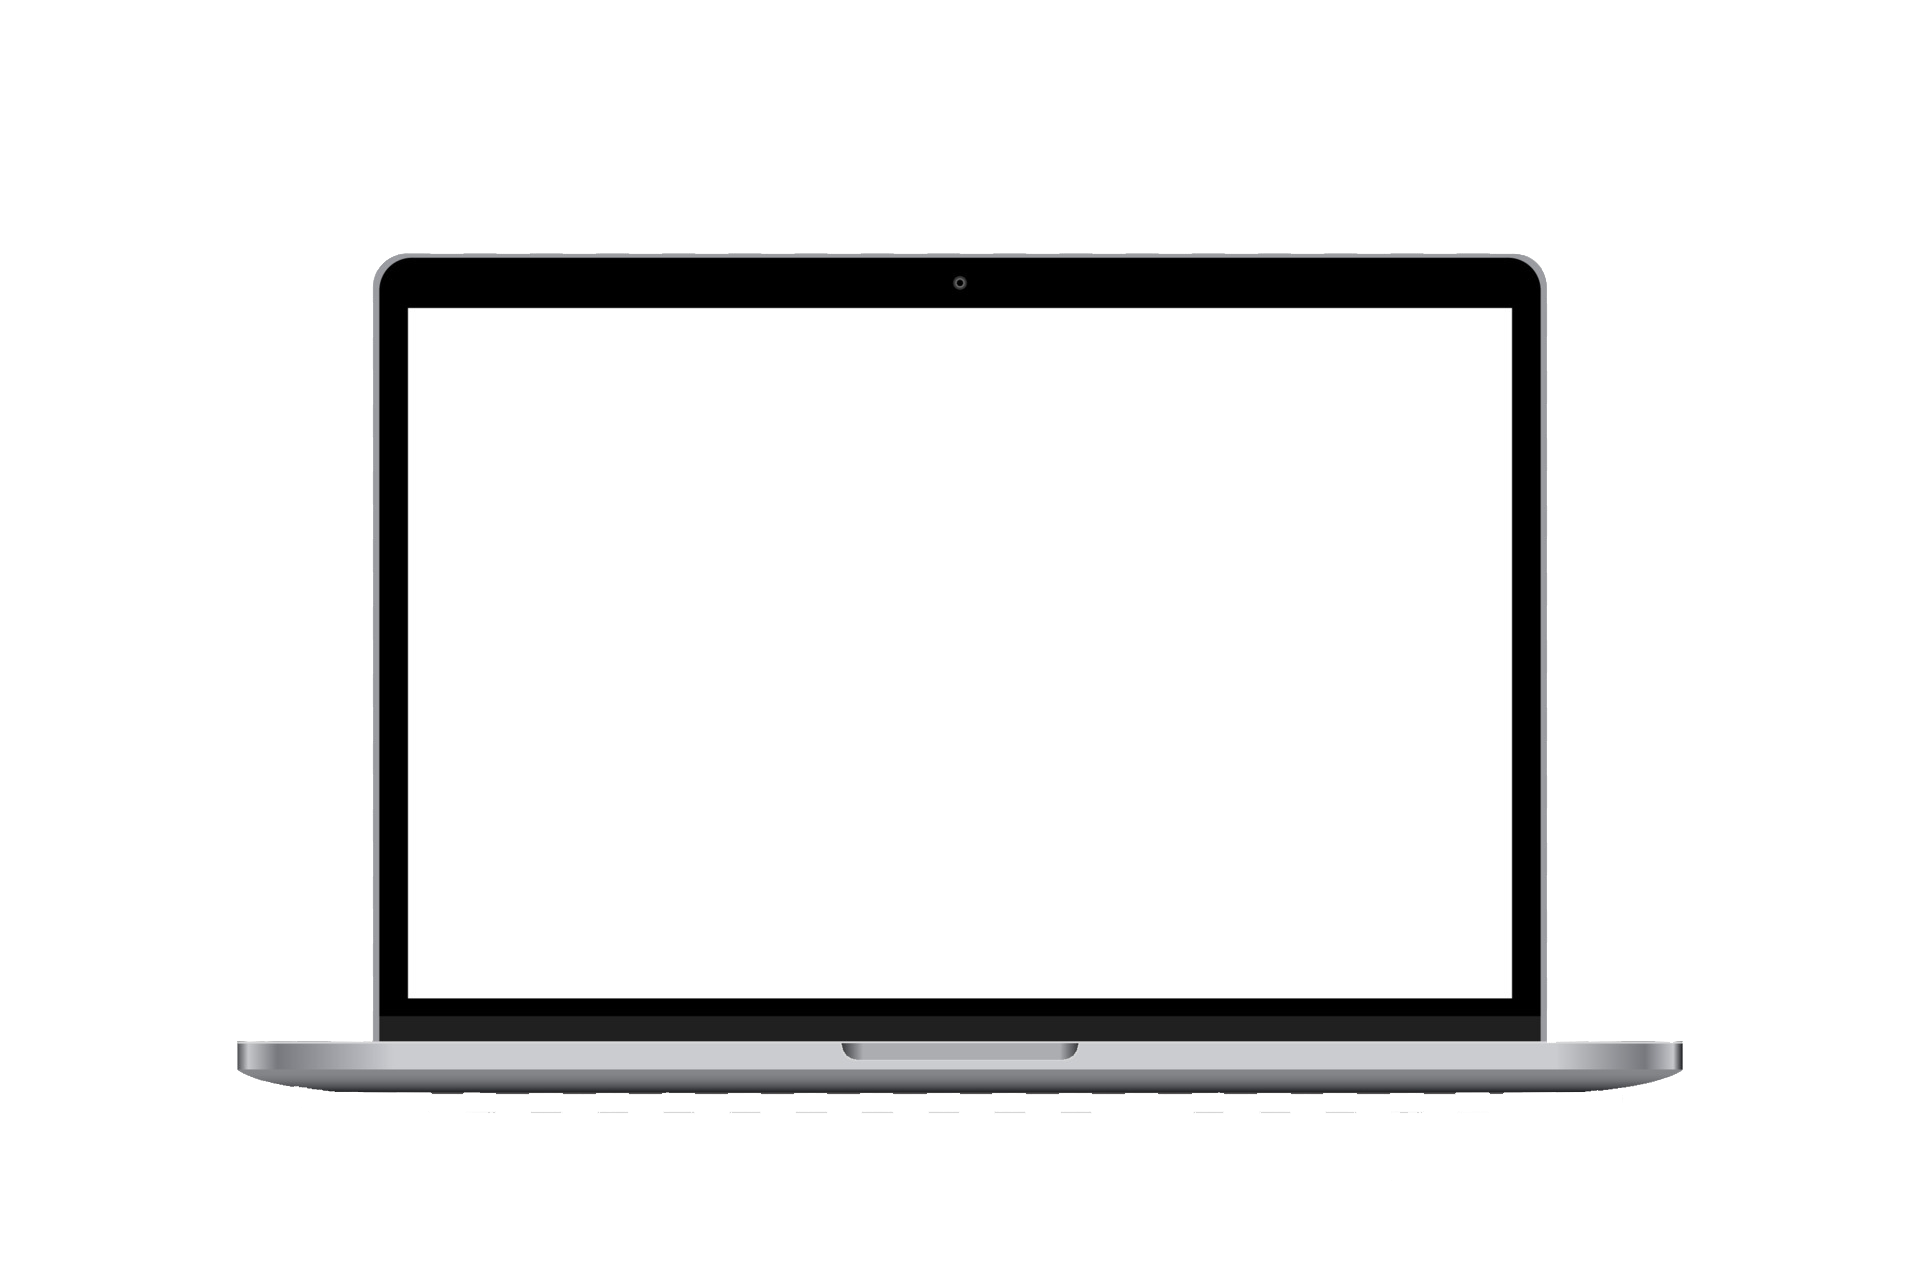
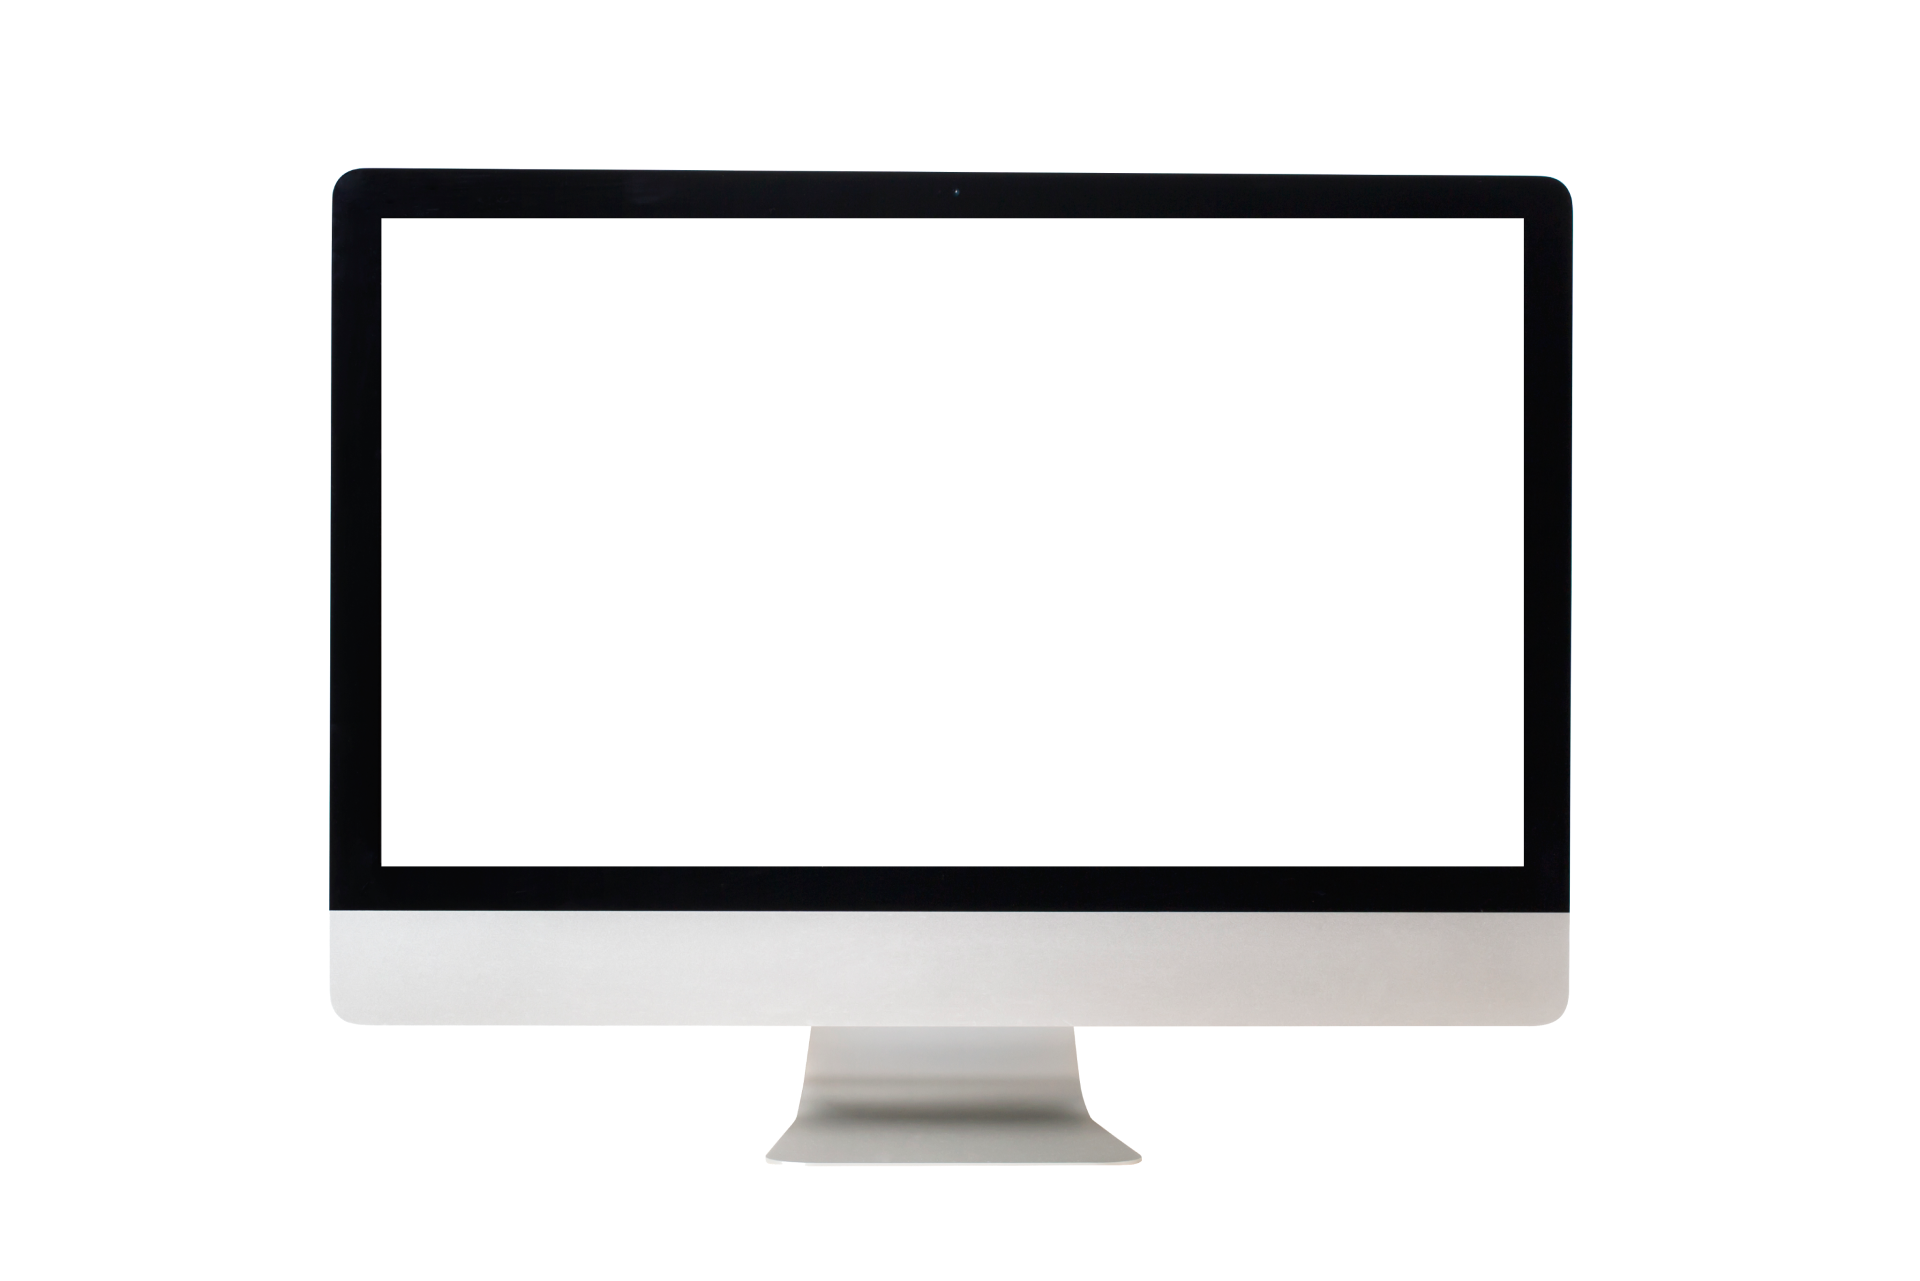
d

Changed region(s): [[0.125, 0.125, 0.875, 0.9375]]

diff --git a/index.js b/index.js
@@ -3,72 +3,7 @@ import puppeteer from "puppeteer";
 import sharp from "sharp";
 import path from "path";
 
-async function captureScreenshotTor() {
-  const browser = await puppeteer.launch({
-    headless: true,
-  });
-  const page = await browser.newPage();
-
-  const viewportWidth = 1100;
-  const viewportHeight = 870;
-
-  await page.setViewport({
-    width: viewportWidth,
-    height: viewportHeight,
-    deviceScaleFactor: 1,
-  });
-
-  await page.goto("https://recursos-web-ten.vercel.app/");
-
-  await new Promise((resolve) => setTimeout(resolve, 5000));
-
-  const screenshotBuffer = await page.screenshot();
-
-  await browser.close();
-
-  const sharpScreenshot = await sharp(screenshotBuffer)
-    .affine([
-      [1, 0.1],
-      [0.01, 0.9],
-    ], {
-      background: 'transparent',
-      interpolator: sharp.interpolators.nohalo
-   })
-    .toBuffer();
-
-  const mockupBuffer = await sharp("assets/desktopTorMockup.png").toBuffer();
-
-  const finalImageBuffer = await sharp(mockupBuffer)
-    .composite([
-      {
-        input: sharpScreenshot,
-        top: 500,
-        left: 500,
-      },
-    ])
-    .toBuffer();
-
-  const carpeta = "imagenes/ima";
-  const rutaCompleta = path.resolve(carpeta);
-
-  if (!fs.existsSync(rutaCompleta)) {
-    fs.mkdirSync(rutaCompleta, { recursive: true });
-  }
-
-  fs.writeFile(
-    path.join(rutaCompleta, "imagen-final.png"),
-    finalImageBuffer,
-    (err) => {
-      if (err) {
-        console.error("Error al guardar la imagen final:", err);
-        return;
-      }
-      console.log("Imagen final guardada exitosamente");
-    }
-  );
-}
-
-async function captureScreenshot() {
+async function laptopMockup() {
   const browser = await puppeteer.launch({
     headless: true,
   });
@@ -91,7 +26,7 @@ async function captureScreenshot() {
 
   await browser.close();
 
-  const mockupBuffer = await sharp("assets/desktopMockup.png").toBuffer();
+  const mockupBuffer = await sharp("assets/laptopMockup.png").toBuffer();
 
   const finalImageBuffer = await sharp(mockupBuffer)
     .composite([
@@ -100,10 +35,6 @@ async function captureScreenshot() {
         top: 308,
         left: 408,
       },
-    ])
-    .affine([
-      [1, 0.3],
-      [0.1, 0.7],
     ])
     .toBuffer();
 
@@ -127,4 +58,169 @@ async function captureScreenshot() {
   );
 }
 
-captureScreenshotTor();
+async function laptopTorMockup() {
+  const browser = await puppeteer.launch({
+    headless: true,
+  });
+  const page = await browser.newPage();
+
+  const viewportWidth = 1104;
+  const viewportHeight = 690;
+
+  await page.setViewport({
+    width: viewportWidth,
+    height: viewportHeight,
+    deviceScaleFactor: 1,
+  });
+
+  await page.goto("https://recursos-web-ten.vercel.app/");
+
+  await new Promise((resolve) => setTimeout(resolve, 5000));
+
+  const screenshotBuffer = await page.screenshot();
+
+  await browser.close();
+
+  const mockupBuffer = await sharp("assets/desktopTorMockup.png").toBuffer();
+
+  const finalImageBuffer = await sharp(mockupBuffer)
+    .composite([
+      {
+        input: screenshotBuffer,
+        top: 308,
+        left: 408,
+      },
+    ])
+    .toBuffer();
+
+  const carpeta = "imagenes/ima";
+  const rutaCompleta = path.resolve(carpeta);
+
+  if (!fs.existsSync(rutaCompleta)) {
+    fs.mkdirSync(rutaCompleta, { recursive: true });
+  }
+
+  fs.writeFile(
+    path.join(rutaCompleta, "imagen-final.png"),
+    finalImageBuffer,
+    (err) => {
+      if (err) {
+        console.error("Error al guardar la imagen final:", err);
+        return;
+      }
+      console.log("Imagen final guardada exitosamente");
+    }
+  );
+}
+
+async function desktopMockup() {
+  const browser = await puppeteer.launch({
+    headless: true,
+  });
+  const page = await browser.newPage();
+
+  const viewportWidth = 1143;
+  const viewportHeight = 649;
+
+  await page.setViewport({
+    width: viewportWidth,
+    height: viewportHeight,
+    deviceScaleFactor: 1,
+  });
+
+  await page.goto("https://recursos-web-ten.vercel.app/");
+
+  await new Promise((resolve) => setTimeout(resolve, 5000));
+
+  const screenshotBuffer = await page.screenshot();
+
+  await browser.close();
+
+  const mockupBuffer = await sharp("assets/desktopMockup.png").toBuffer();
+
+  const finalImageBuffer = await sharp(mockupBuffer)
+    .composite([
+      {
+        input: screenshotBuffer,
+        top: 218,
+        left: 381,
+      },
+    ])
+    .toBuffer();
+
+  const carpeta = "imagenes/ima";
+  const rutaCompleta = path.resolve(carpeta);
+
+  if (!fs.existsSync(rutaCompleta)) {
+    fs.mkdirSync(rutaCompleta, { recursive: true });
+  }
+
+  fs.writeFile(
+    path.join(rutaCompleta, "imagen-final.png"),
+    finalImageBuffer,
+    (err) => {
+      if (err) {
+        console.error("Error al guardar la imagen final:", err);
+        return;
+      }
+      console.log("Imagen final guardada exitosamente");
+    }
+  );
+}
+
+async function tabletMockup() {
+  const browser = await puppeteer.launch({
+    headless: true,
+  });
+  const page = await browser.newPage();
+
+  const viewportWidth = 714;
+  const viewportHeight = 948;
+
+  await page.setViewport({
+    width: viewportWidth,
+    height: viewportHeight,
+    deviceScaleFactor: 1,
+  });
+
+  await page.goto("https://recursos-web-ten.vercel.app/");
+
+  await new Promise((resolve) => setTimeout(resolve, 5000));
+
+  const screenshotBuffer = await page.screenshot();
+
+  await browser.close();
+
+  const mockupBuffer = await sharp("assets/tabletMockup.png").toBuffer();
+
+  const finalImageBuffer = await sharp(mockupBuffer)
+    .composite([
+      {
+        input: screenshotBuffer,
+        top: 270,
+        left: 393,
+      },
+    ])
+    .toBuffer();
+
+  const carpeta = "imagenes/ima";
+  const rutaCompleta = path.resolve(carpeta);
+
+  if (!fs.existsSync(rutaCompleta)) {
+    fs.mkdirSync(rutaCompleta, { recursive: true });
+  }
+
+  fs.writeFile(
+    path.join(rutaCompleta, "imagen-final.png"),
+    finalImageBuffer,
+    (err) => {
+      if (err) {
+        console.error("Error al guardar la imagen final:", err);
+        return;
+      }
+      console.log("Imagen final guardada exitosamente");
+    }
+  );
+}
+
+laptopTorMockup();  
